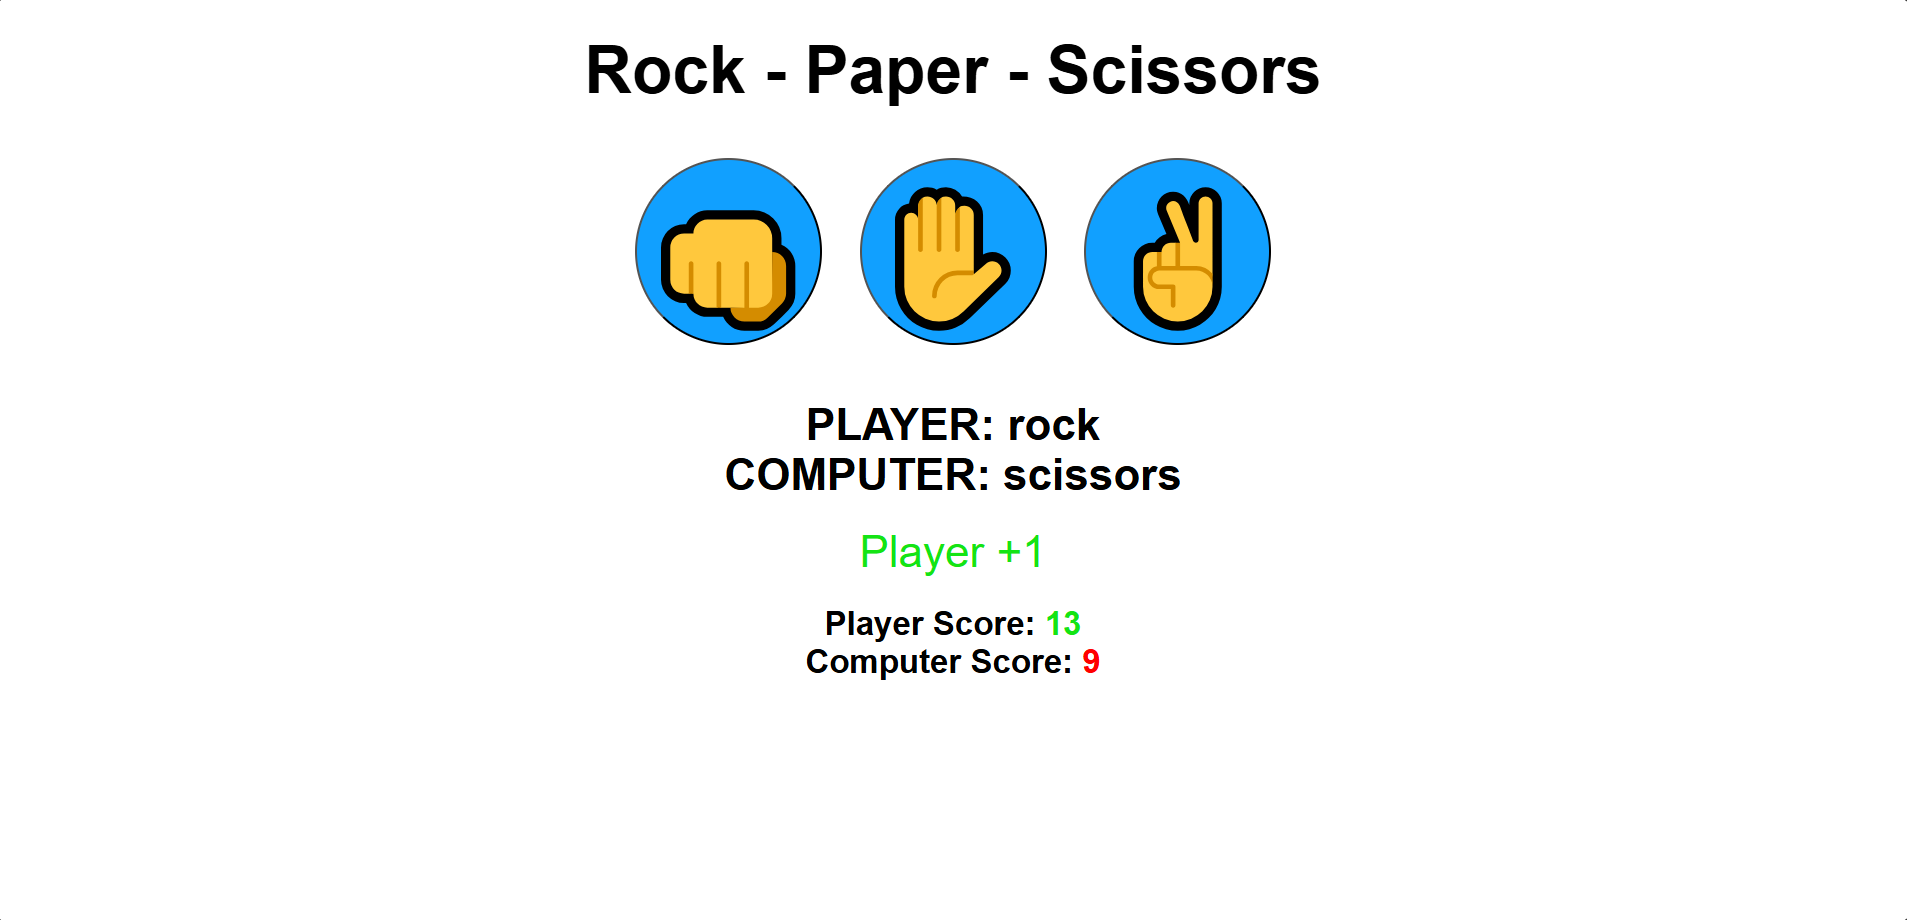
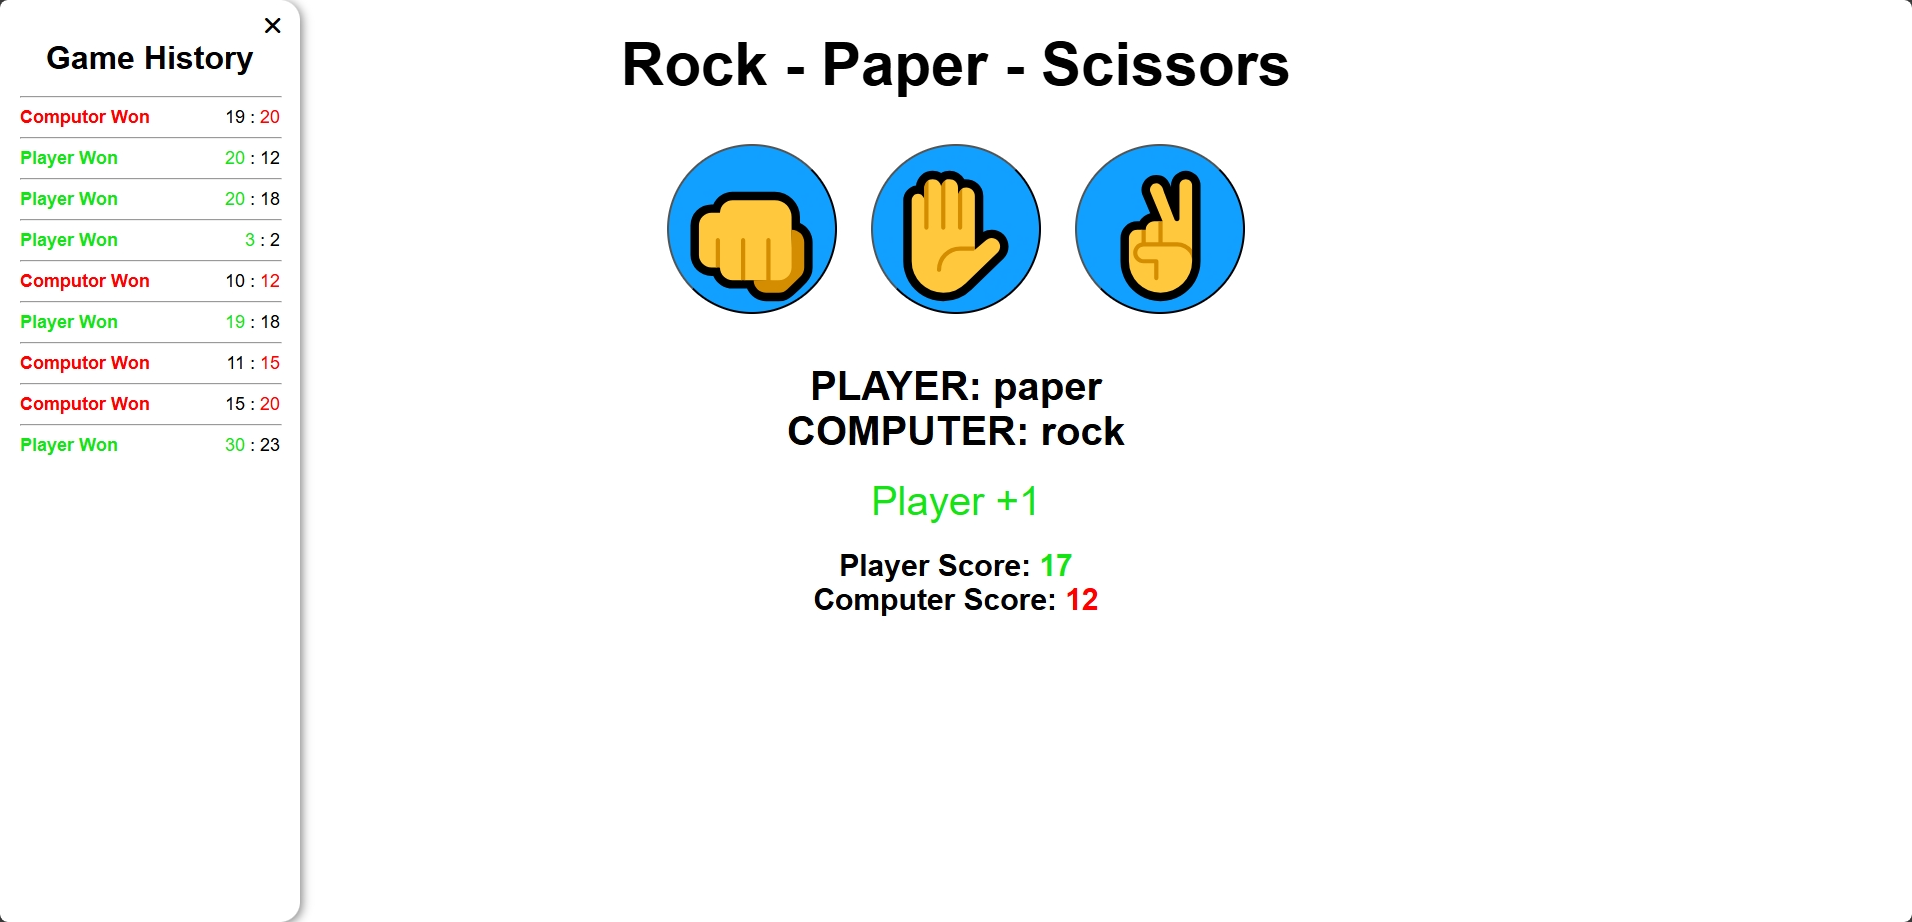
Update readme

Changed region(s): [[0.3094, 0.1522, 0.6807, 0.7304], [0.0, 0.0304, 0.1856, 1.0], [0.3094, 0.0304, 0.7116, 0.1217]]

diff --git a/README.md b/README.md
@@ -1,27 +1,39 @@
 # Rock Paper Scissors 🧱 📄 ✂
 
-A classic Rock Paper Scissors game where players compete against the computer. The game displays player selections, round results, and keeps track of the score.
+A classic Rock Paper Scissors game where you compete against the computer. Each round, you'll see both player and computer selections, track your score in real-time, and review previous match results.
 
 ## Features ✨
 
-- **Select winning target** - Choose the score needed to win: input your own, generate randomly, or play infinitely
-- **Play against computer** - Random computer choices for each round
-- **Visual feedback** - See both player and computer selections
-- **Score tracking** - Real-time score updates for player and computer
-- **Modal view** - Select winning target at start and view final results in a modal
-- **Confetti effect** - Show fireworks confetti when the player wins
-- **Popup** - Show popup on invalid winning target input
+### Game Setup 🎮
+
+- **Flexible Win Conditions** - Choose your winning target:
+  - Custom input: Set your own score target
+  - Random: Let the computer decide the winning score
+  - Infinite: Play endlessly without a score limit
+
+### Gameplay 🕹
+
+- **vs Computer** - Challenge the computer with random choices each round
+- **Visual Feedback** - Clear visual indicators showing both player and computer selections
+- **Real-time Score Tracking** - Dynamic score updates for both player and computer
+- **Game History** - View results of previous matches in an interactive history log
+
+### Visual Effects 🎨
+
+- **Confetti Celebration** - Enjoy a fireworks confetti animation when you win! 🎊
+- **Modal Interfaces** - Clean modal design for game setup and final results
+- **Input Validation** - Helpful popup notifications for invalid winning target inputs
 
 ## Key Concepts Used 🧩
 
-- DOM selection `document.getElementById()`
-- Event Handling `.addEventListener()`
-- Event Delegation `e.target`
-- Conditional logic `if/else`
-- Switch Statement `switch()`
-- Ternary Operator `condition ? value1 : value2`
-- Read / Update Properties`.style` `.textContent` `.checked`
-- `canvas-confetti` for win animations 🎊
+- **DOM Manipulation**: `document.getElementById()`, `.style`, `.textContent`, `.value`, `.checked`
+- **Event Handling**: `.addEventListener()` for user interactions
+- **Event Delegation**: Efficient event handling with `e.target`
+- **Randomization**: `Math.floor()` & `Math.random()` for computer choices
+- **Control Flow**: Conditional logic (`if/else`), Switch statements, Ternary operators
+- **Timing Functions**: `window.setInterval()` & `clearInterval()` for winning animation
+- **Dynamic Content**: `.createElement()` and `.after()` for game history
+- **External Libraries**: `canvas-confetti` for win animations
 
 ## Programming Languages Used 🛠
 
@@ -35,14 +47,10 @@ A classic Rock Paper Scissors game where players compete against the computer. T
 
 ![Selecting the winning target type in Rock Paper Scissors](images/js-rock-paper-scissors-select-winning-target.png)
 
-### Game Play
+### Game Play (with visible Game History)
 
 ![Main Rock Paper Scissors gameplay interface](images/js-rock-paper-scissors-game-play.png)
 
 ### Winning The Game
 
 ![Victory screen showing "YOU WON" message with confetti animation](images/js-rock-paper-scissors-winning-the-game.png)
-
-## Future Enhancements 🚀
-
-- Add game history
